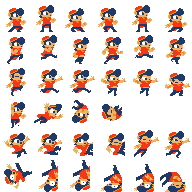
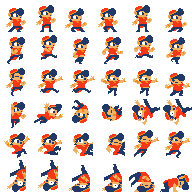
current

diff --git a/player.js b/player.js
@@ -13,9 +13,16 @@ function Player() {
         "idle":[0, 1, 2, 3, 4, 5],
         "run":[6, 7, 8, 9, 10, 11],
         "jump":[12, 12],
+        "walljump":[19, 20, 21],
         "up":[13,14],
         "down":[15,16],
         "slide":[18],
+        "super":[24, 25],
+        "rebound":[26,27],
+        "rejump":[28,29],
+        "airfail": [22, 23],
+        "wallfail": [30, 31],
+        "getup": [32, 33, 34, 35],
     }
 
     this.frame.width = 32;
@@ -64,7 +71,6 @@ Player.prototype.collide = function(leftOrRight) {
             if (ent.type == 'door' && !this.won) {
                 this.won = true;
                 currentLevel++;
-                console.log(currentLevel);
                 start();
                 return
             }
@@ -87,7 +93,7 @@ Player.prototype.collide = function(leftOrRight) {
                 }
             }
 
-            this.onCollide(leftOrRight);
+            this.onCollide(leftOrRight, ent);
             c++;
             if (c > 1) {
                 console.log("Multiple");
@@ -96,15 +102,42 @@ Player.prototype.collide = function(leftOrRight) {
     }
 };
 
-Player.prototype.onCollide = function(leftOrRight) {
+Player.prototype.onCollide = function(leftOrRight, ent) {
     if (leftOrRight) {
         if (this.leftWall && this.rightWall) {
             start();
         }
-        if (this.leftWall) {
-            this.vel.x = Math.max(this.vel.x, leftVel);
+
+        if (this.anim == "rebound") {
+            if (this.leftWall) {
+                this.vel.x = -2;
+            } else {
+                this.vel.x = 2;
+            }
+        } else if (this.anim == "airfail") {
+            this.playAnim("wallfail");
+            this.default = "wallfail";
+            if (this.leftWall) {
+                this.vel.x = -2;
+            } else {
+                this.vel.x = 2;
+            }
         } else {
-            this.vel.x = Math.min(this.vel.x, rightVel);
+            if (this.leftWall) {
+                this.vel.x = ent.vel.x - 0.05;
+            } else {
+                this.vel.x = ent.vel.x + 0.05;
+            }
+        }
+
+        if (this.anim == "super") {
+            this.playAnim("rebound");
+
+            if (this.leftWall) {
+                this.vel.x = -2;
+            } else {
+                this.vel.x = 2;
+            }
         }
     } else {
         this.vel.y = 0;
@@ -122,6 +155,14 @@ Player.prototype.playAnim = function(anim) {
     }
 }
 
+Player.prototype.fall = function() {
+    this.vel.y += this.gravity;
+    if (!this.onGround && this.vel.y > 0 && this.anim != "super" && this.anim != "airfail") {
+        this.playAnim("down");
+        this.default = "down";
+    }
+}
+
 Player.prototype.update = function() {
     if (Math.abs(this.vel.x) <= this.friction[this.onGround]) {
         this.vel.x = 0;
@@ -130,47 +171,67 @@ Player.prototype.update = function() {
     }
 
     if (this.onGround) {
-        if (Key.isDown(Key.LEFT) || Key.isDown(Key.RIGHT)) {
-            if (Key.isDown(Key.LEFT)) {
-                this.sprite.scale.x = -1;
-            } else {
-                this.sprite.scale.x = 1;
-            }
-            this.playAnim("run");
-            this.default = "run";
-        } else {
-            this.playAnim("idle");
+        if (this.anim == "wallfail" || this.anim == "airfail") {
+            this.playAnim("getup");
             this.default = "idle";
+        }
+
+        if (this.anim != "getup") {
+            if (Key.isDown(Key.LEFT) || Key.isDown(Key.RIGHT)) {
+                if (Key.isDown(Key.LEFT)) {
+                    this.sprite.scale.x = -1;
+                } else {
+                    this.sprite.scale.x = 1;
+                }
+                this.playAnim("run");
+                this.default = "run";
+            } else {
+                this.playAnim("idle");
+                this.default = "idle";
+            }
         }
     }
 
     if (Key.isDown(Key.UP)) {
         if (this.letGo == true) {
-            this.playAnim("jump");
-            this.default = "up";
+            if (["airfail", "wallfail", "rebound", "getup"].indexOf(this.anim) == -1) {
+                if (this.onGround) {
+                    this.vel.y = -this.jumpAmount;
 
-            if (this.onGround) {
-                this.vel.y = -this.jumpAmount;
-            } else if (this.leftWall) {
-                this.vel.y = -this.jumpAmount * 0.9;
-                this.vel.x = this.maxSpeed;
-                this.leftLock = 20;
-                if (this.pushLeft) leftVel = -0.5;
-            } else if (this.rightWall) {
-                this.vel.y = -this.jumpAmount * 0.9;
-                this.vel.x = -this.maxSpeed;
-                this.rightLock = 20;
-                if (this.pushRight) rightVel = 0.5;
+                    this.playAnim("up");
+                    this.default = "up";
+                } else if (this.leftWall) {
+                    this.vel.y = -this.jumpAmount * 0.9;
+                    this.vel.x = this.maxSpeed;
+                    this.leftLock = 20;
+                    if (this.pushLeft) leftVel = -0.5;
+
+                    this.playAnim("walljump");
+                    this.default = "up";
+                } else if (this.rightWall) {
+                    this.vel.y = -this.jumpAmount * 0.9;
+                    this.vel.x = -this.maxSpeed;
+                    this.rightLock = 20;
+                    if (this.pushRight) rightVel = 0.5;
+
+                    this.playAnim("walljump");
+                    this.default = "up";
+                } else {
+                    this.playAnim("super");
+                }
             }
         }
         this.letGo = false;
     } else {
         this.letGo = true;
-        if (this.vel.y < 0) this.vel.y *= 0.5;
+        // if (this.vel.y < 0) this.vel.y *= 0.5;
     }
 
-    if (Key.isDown(Key.LEFT) && this.leftLock <= 0) this.vel.x -= this.acc;
-    if (Key.isDown(Key.RIGHT) && this.rightLock <= 0) this.vel.x += this.acc;
+    if (["airfail", "wallfail", "rebound", "getup"].indexOf(this.anim) == -1) {
+        if (Key.isDown(Key.LEFT) && this.leftLock <= 0) this.vel.x -= this.acc;
+        if (Key.isDown(Key.RIGHT) && this.rightLock <= 0) this.vel.x += this.acc;
+    }
+
     if (Key.isDown(Key.R)) {
         if (this.d) start();
     } else {
@@ -186,23 +247,41 @@ Player.prototype.update = function() {
     this.leftLock--;
     this.rightLock--;
 
-    if ((this.leftWall || this.rightWall) && !this.onGround && this.vel.y >= 0) {
-        this.vel.y += this.gravity / 2;
-        this.playAnim("slide");
-        this.default = "slide";
-        if (this.leftWall) {
-            this.sprite.scale.x = 1;
-            this.offset.x = -2;
+    if ((this.leftWall || this.rightWall) && !this.onGround) {
+        if (this.anim == "wallfail") {
+            if (this.leftWall) {
+                this.sprite.scale.x = -1;
+            } else {
+                this.sprite.scale.x = 1;
+            }
+            this.vel.y += this.gravity;
+        } else if (this.anim == "rebound") {
+            this.vel.y = 0;
+
+            if (this.leftWall) {
+                this.sprite.scale.x = -1;
+                this.offset.x = 5;
+            } else {
+                this.sprite.scale.x = 1;
+                this.offset.x = -5;
+            }
+        } else if (this.vel.y >= 0) {
+            this.vel.y += this.gravity / 2;
+
+            this.playAnim("slide");
+            this.default = "slide";
+            if (this.leftWall) {
+                this.sprite.scale.x = 1;
+                this.offset.x = -2;
+            } else {
+                this.sprite.scale.x = -1;
+                this.offset.x = 2;
+            }
         } else {
-            this.sprite.scale.x = -1;
-            this.offset.x = 2;
+            this.fall();
         }
     } else {
-        this.vel.y += this.gravity;
-        if (!this.onGround && this.vel.y > 0) {
-            this.playAnim("down");
-            this.default = "down";
-        }
+        this.fall();
     }
 
     this.onGround = false;
@@ -226,13 +305,36 @@ Player.prototype.updateGraphics = function() {
     if (this.counter >= 6) {
         this.counter = 0;
         this.f++;
+
         if (this.anims[this.anim].length <= this.f) {
-            this.f = 0;
-            this.anim = this.default;
+            if (this.anim == "rebound") {
+                this.playAnim("rejump");
+                this.default = "rejump";
+
+                if (this.leftWall) {
+                    this.vel.y = -this.jumpAmount * 1.2;
+                    this.vel.x = this.maxSpeed;
+                    this.leftLock = 20;
+                    if (this.pushLeft) leftVel = -0.5;
+                } else {
+                    this.vel.y = -this.jumpAmount * 1.2;
+                    this.vel.x = -this.maxSpeed;
+                    this.rightLock = 20;
+                    if (this.pushRight) rightVel = 0.5;
+                }
+
+                this.sprite.scale.x *= -1;
+            } else if (this.anim == "super") {
+                this.playAnim("airfail");
+                this.default = "airfail";
+            } else {
+                this.f = 0;
+                this.anim = this.default;
+            }
         }
     }
 
-    if (this.anim != "slide") {
+    if (this.anim != "slide" && this.anim != "rebound") {
         this.offset.x = 0;
     }
 

diff --git a/main.js b/main.js
@@ -1,8 +1,8 @@
 var logicalWidth = 12 * 16;
 var logicalHeight = 288;
 
-var leftVel = 0.25;
-var rightVel = -0.25;
+var leftVel = 0;
+var rightVel = -0;
 var leftX = 16;
 var rightX = 16;
 
@@ -68,7 +68,6 @@ function resizeHandler() {
 };
 
 function loadLevel() {
-    console.log("h",currentLevel);
     var level = levels[currentLevel];
     var startX = 100;
     var startY = 200;
@@ -118,14 +117,13 @@ function loadLevel() {
             entities.push(door);
         }
     }
-    console.log("h2",currentLevel);
 }
 
 function start() {
     leftX = 16;
     rightX = 16;
-    leftVel = 0.25;
-    rightVel = -0.25;
+    leftVel = 0;
+    rightVel = 0;
 
     mainContainer.removeChildren();
     entities.length = 0;
@@ -167,8 +165,7 @@ function init() {
   window.addEventListener('resize', resizeHandler, false);
   resizeHandler();
   
-  PIXI.loader.add('bunny', 'test.png')
-             .add('pact', 'pact.png')
+  PIXI.loader.add('pact', 'pact.png')
              .add('tiles', 'tiles.png').load(function (loader, res) {
       resources = res;
 

diff --git a/entity.js b/entity.js
@@ -31,7 +31,7 @@ function Entity(file) {
     this.height = 0;
 
     this.frame = new PIXI.Rectangle(0, 0, 16, 16);
-    this.sprite = new PIXI.Sprite(new PIXI.Texture(resources[file || 'bunny'].texture, this.frame));
+    this.sprite = new PIXI.Sprite(new PIXI.Texture(resources[file].texture, this.frame));
 
     this.sprite.anchor.x = 0.5;
     this.sprite.anchor.y = 0.5;

diff --git a/index.html b/index.html
@@ -19,7 +19,6 @@
         }
 
         canvas {
-            background-color: #350902;
             padding-left: 0;
             padding-right: 0;
             margin-left: auto;
